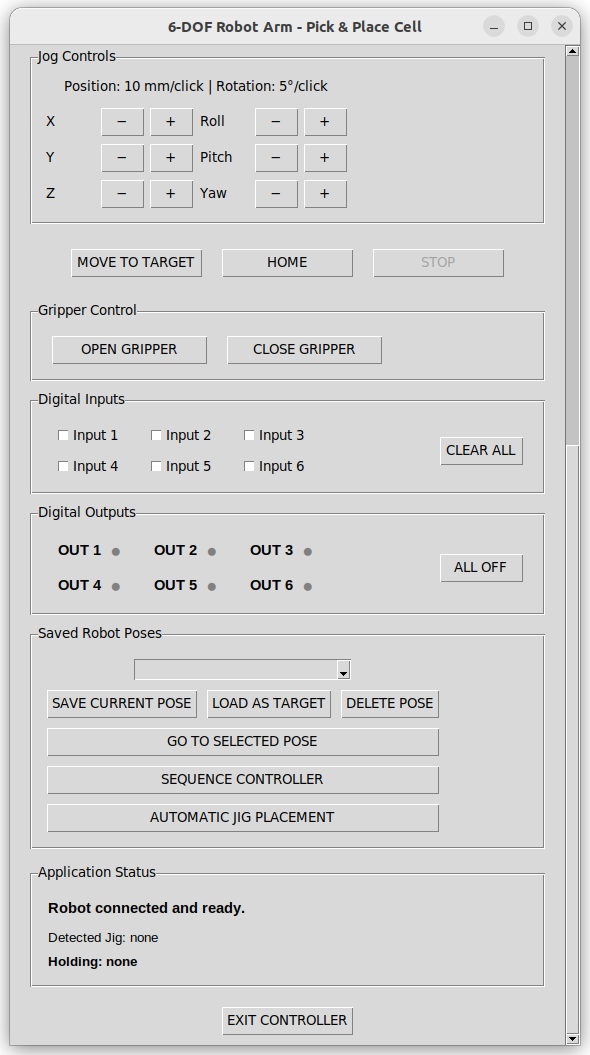
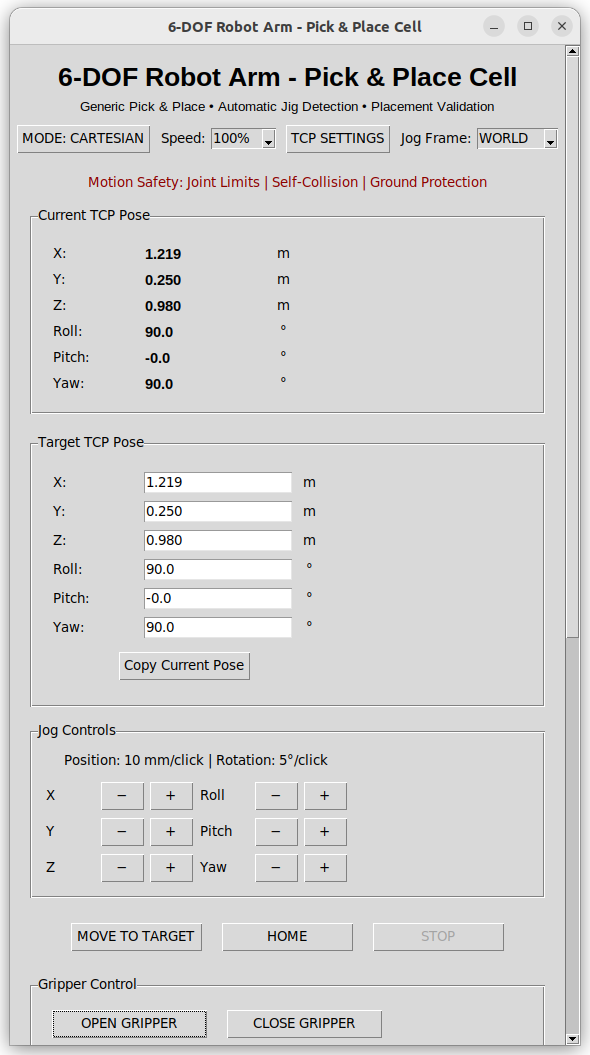
Replace operator GUI screenshot and normalize README image sizes

diff --git a/README.md b/README.md
@@ -276,17 +276,36 @@ The repository gallery uses **real project CAD, simulation and GUI screenshots**
 ### Custom operator interface
 
 <table>
-<tr>
-<td width="50%"><img src="assets/screenshots/gui_manual_control.png" alt="Robot controller GUI"></td>
-<td width="50%"><img src="assets/screenshots/gui_sequence_programming.png" alt="Sequence programming GUI"></td>
-</tr>
-<tr>
-<td align="center"><b>Manual robot control</b></td>
-<td align="center"><b>Sequence programming</b></td>
-</tr>
+  <tr>
+    <td align="center" width="50%">
+      <img src="assets/screenshots/gui_manual_control.png" alt="Main Operator Interface" width="430"><br>
+      <b>Main Operator Interface</b>
+    </td>
+    <td align="center" width="50%">
+      <img src="assets/screenshots/gui_sequence_programming.png" alt="Sequence Controller" width="430"><br>
+      <b>Sequence Controller</b>
+    </td>
+  </tr>
 </table>
 
-### Automatic jig-placement workflow
+The main interface provides Cartesian/joint control, TCP display and target entry, gripper commands, six digital inputs, six digital outputs, saved poses, access to the Sequence Controller, Automatic Jig Placement, and live application status.
+
+### Sequence Controller
+
+The Sequence Controller allows the operator to build motion logic row by row. Each row can define:
+
+- **Waypoint** — any saved robot pose  
+- **Behavior** — stop at a waypoint or continue through it  
+- **Blend radius** — smoothing for continuous motion  
+- **Motion type** — linear motion (LIN)  
+- **Conditional logic** — `IF IN x = TRUE/FALSE`  
+- **Condition timing** — evaluate conditions **BEFORE** or **AFTER** a waypoint  
+- **Output actions** — activate or deactivate digital outputs  
+- **Gripper actions** — open or close the gripper  
+- **Execution flow** — run, stop, resume, clear, or remove waypoints  
+
+
+## Automatic jig-placement workflow
 
 ![Automatic jig placement GUI](assets/screenshots/automatic_jig_placement_gui.png)
 
